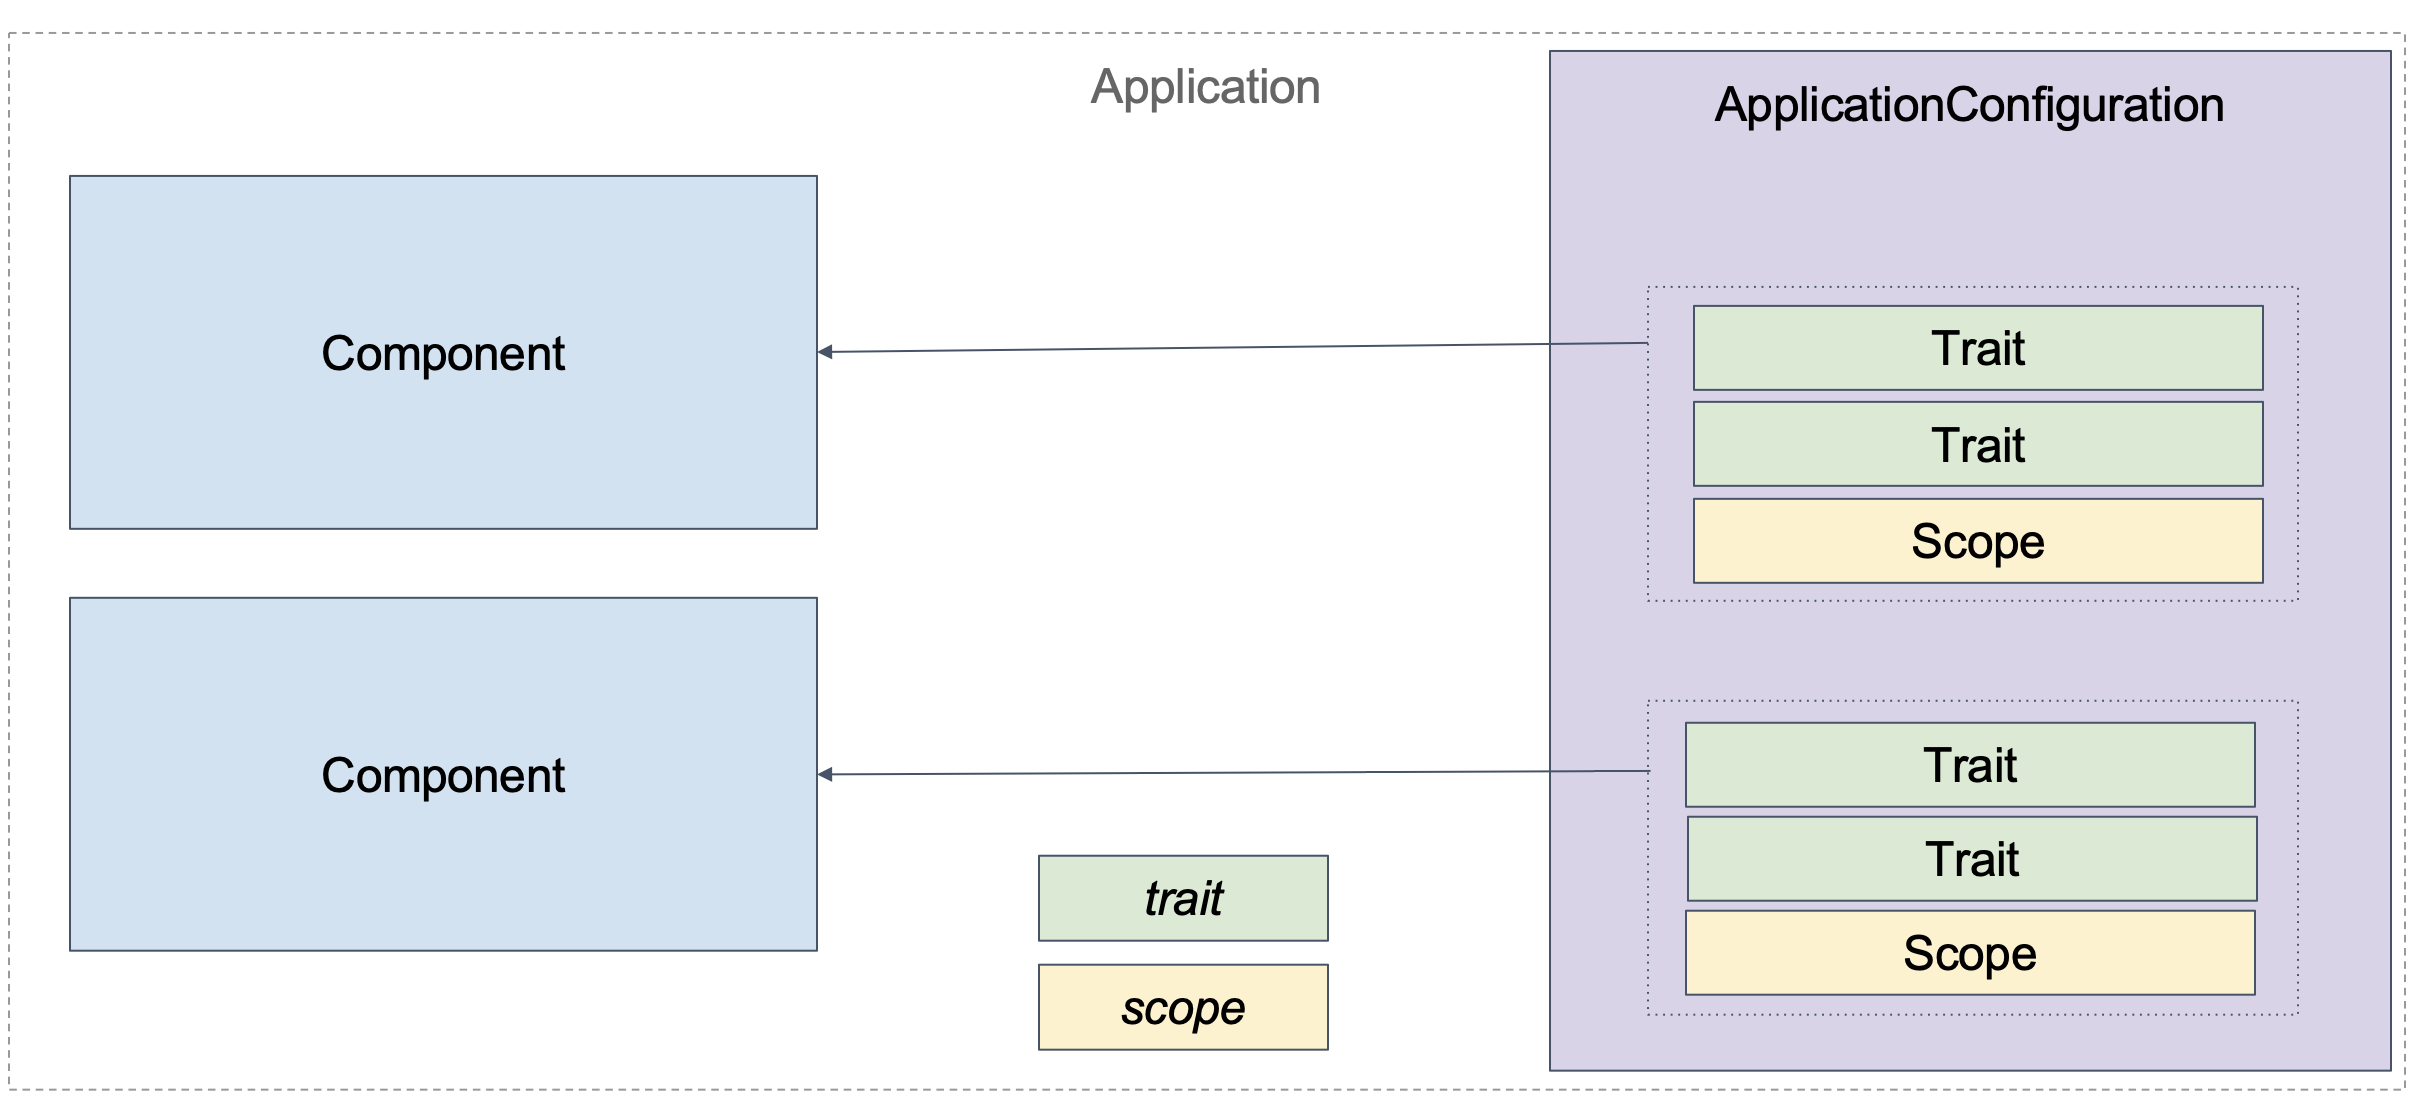
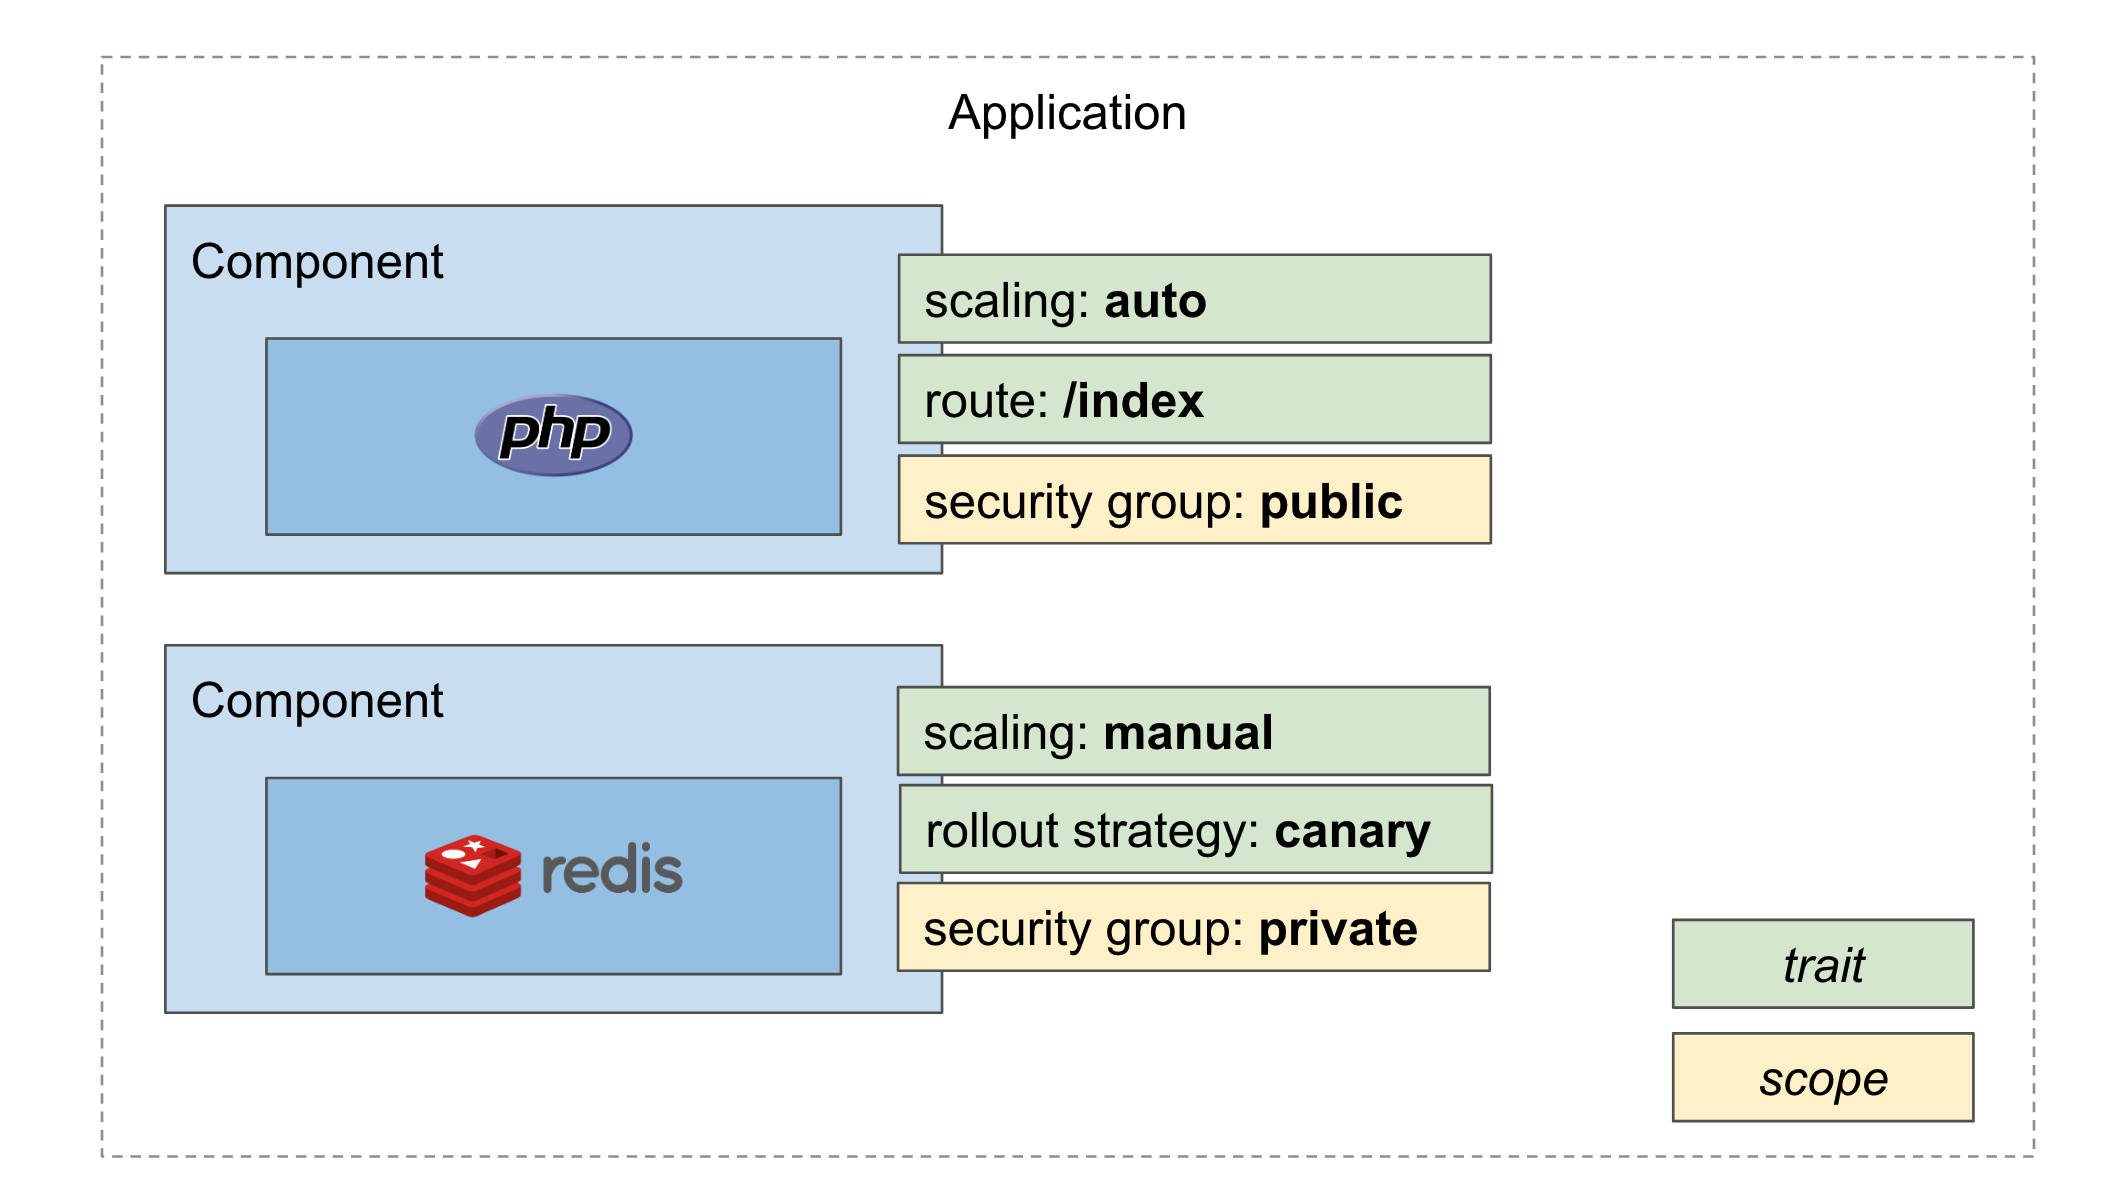
Fix workflow

diff --git a/examples/workflow.md b/examples/workflow.md
@@ -4,57 +4,43 @@ This section is non-normative. OAM compliant tooling need not implement this sec
 
 This section uses a fictional tool called `oamctl` to illustrate a workflow pattern for OAM app operations.
 
-## Deploying two components
+## Install two workload types
 
 The following example shows two separate components:
- - a front-end web app in a container, run as a core containerized workload.
- - a back-end Cassandra database, represented by an extended workload.
+ - a `webserver` web app in a container, run as a core containerized workload.
+ - a `cassandra` Cassandra database, represented by an extended workload.
 
 ```yaml
 apiVersion: core.oam.dev/v1alpha2
-kind: Component
+kind: WorkloadDefinition
 metadata:
-  name: frontend
+  name: webserver
   annotations:
     version: v1.0.0
     description: "A simple webserver"
 spec:
-  type: Server
-  settings:
-    osType: linux
-    containers:
-    - name: web
-      image: example/charybdis-single:latest@@sha256:verytrustworthyhash
-      resources:
-        cpu:
-          required: 1.0
-        memory:
-          required: 100MB
-      env:
-      - name: MESSAGE
-        value: default
+  template:
+    ...
 ```
 
 ```yaml
 apiVersion: core.oam.dev/v1alpha2
-kind: Component
+kind: WorkloadDefinition
 metadata:
-  name: backend
+  name: cassandra
   annotations:
     version: v1.0.0
     description: "Cassandra database"
 spec:
-  type: Cassandra
-  settings:
-    maxStalenessPrefix: 100000
-    defaultConsistencyLevel: Eventual
+  template:
+    ...
 ```
 
-An application configuration combines any number of components and sets operational characteristics and configuration for a deployed _instance_ of each component.
+An application combines any number of components and sets operational characteristics and configuration for a deployed _instance_ of each component.
 
 ```yaml
 apiVersion: core.oam.dev/v1alpha2
-kind: ApplicationConfiguration
+kind: Application
 metadata:
   name: custom-single-app
   annotations:
@@ -62,21 +48,39 @@ metadata:
     description: "Customized version of single-app"
 spec:
   components:
-    - componentName: frontend
-    - componentName: backend
+    - name: frontend
+      type: webserver
+      settings:
+        osType: linux
+        containers:
+        - name: web
+          image: example/charybdis-single:latest@@sha256:verytrustworthyhash
+          resources:
+            cpu:
+              required: 1.0
+            memory:
+              required: 100MB
+          env:
+          - name: MESSAGE
+            value: overridden message
+    - name: backend
+      type: cassandra
+      settings:
+        maxStalenessPrefix: 100000
+        defaultConsistencyLevel: Eventual
 ```
 
-The operator can now deploy the components together with this configuration to create running instances of the components:
+The operator can now deploy the workload definitions together with this application to create running instances of the components:
 
 ```output
-$ oamctl install -c ./config.yaml ./frontend.yaml ./backend.yaml -p "message=overridden message!"
+$ oamctl install -c ./app.yaml ./webserver.yaml ./cassandra.yaml
 ```
 
 ## Adding traits to the components
 
 Traits are attached by application operators. In the next part of this example, traits are added to the two components defined previously.
 
-Our system supports a few different traits:
+Our system supports a few different traits (pre-installed by `TraitDefinition`):
 
 ```console
 $ oamctl trait-list
@@ -93,7 +97,7 @@ Here is how the previous application configuration looks with an `Ingress` trait
 
 ```yaml
 apiVersion: core.oam.dev/v1alpha2
-kind: ApplicationConfiguration
+kind: Application
 metadata:
   name: custom-single-app
   annotations:
@@ -101,17 +105,32 @@ metadata:
     description: "Customized version of single-app"
 spec:
   components:
-    - componentName: frontend
-      traits:
-        - name: ingress
-          properties:
-            host: "www.example.com"
-            path: "/"
+    - component
+      - name: frontend
+        type: webserver
+        settings:
+          osType: linux
+          containers:
+          - name: web
+            image: example/charybdis-single:latest@@sha256:verytrustworthyhash
+            resources:
+              cpu:
+                required: 1.0
+              memory:
+                required: 100MB
+            env:
+            - name: MESSAGE
+              value: overridden message
+        traits:
+          - name: ingress
+            properties:
+              host: "www.example.com"
+              path: "/"
 ```
 
 This example attaches an `ingress` to route traffic from another network (public, perhaps) to the internal service. This configuration shows how the trait is both attached and configured.
 
-An implementation of this would then direct inbound traffic bound for `www.example.com` to the `front-end` component.
+An implementation of this would then direct inbound traffic bound for `www.example.com` to the `frontend` component.
 
 ### Placing components into application scopes
 
@@ -140,7 +159,7 @@ Both components are then added to the same network scope for direct network conn
 
 ```yaml
 apiVersion: core.oam.dev/v1alpha2
-kind: ApplicationConfiguration
+kind: Application
 metadata:
   name: custom-single-app
   annotations:
@@ -148,7 +167,22 @@ metadata:
     description: "Customized version of single-app"
 spec:
   components:
-    - componentName: frontend
+    - component
+      - name: frontend
+        type: webserver
+        settings:
+          osType: linux
+          containers:
+          - name: web
+            image: example/charybdis-single:latest@@sha256:verytrustworthyhash
+            resources:
+              cpu:
+                required: 1.0
+              memory:
+                required: 100MB
+            env:
+            - name: MESSAGE
+              value: overridden message
       traits:
         - name: ingress
           properties:
@@ -159,12 +193,11 @@ spec:
             apiVersion: core.oam.dev/v1alpha2
             kind: NetworkScope
             name: my-vpc-network
-    - componentName: backend
-      scopes:
-        - scopeRef:
-            apiVersion: core.oam.dev/v1alpha2
-            kind: NetworkScope
-            name: my-vpc-network
+    - name: backend
+      type: cassandra
+      settings:
+        maxStalenessPrefix: 100000
+        defaultConsistencyLevel: Eventual
 ```
 
 This example now shows a complete installation of the application configuration composed of two components, an ingress trait, and a network scope.
